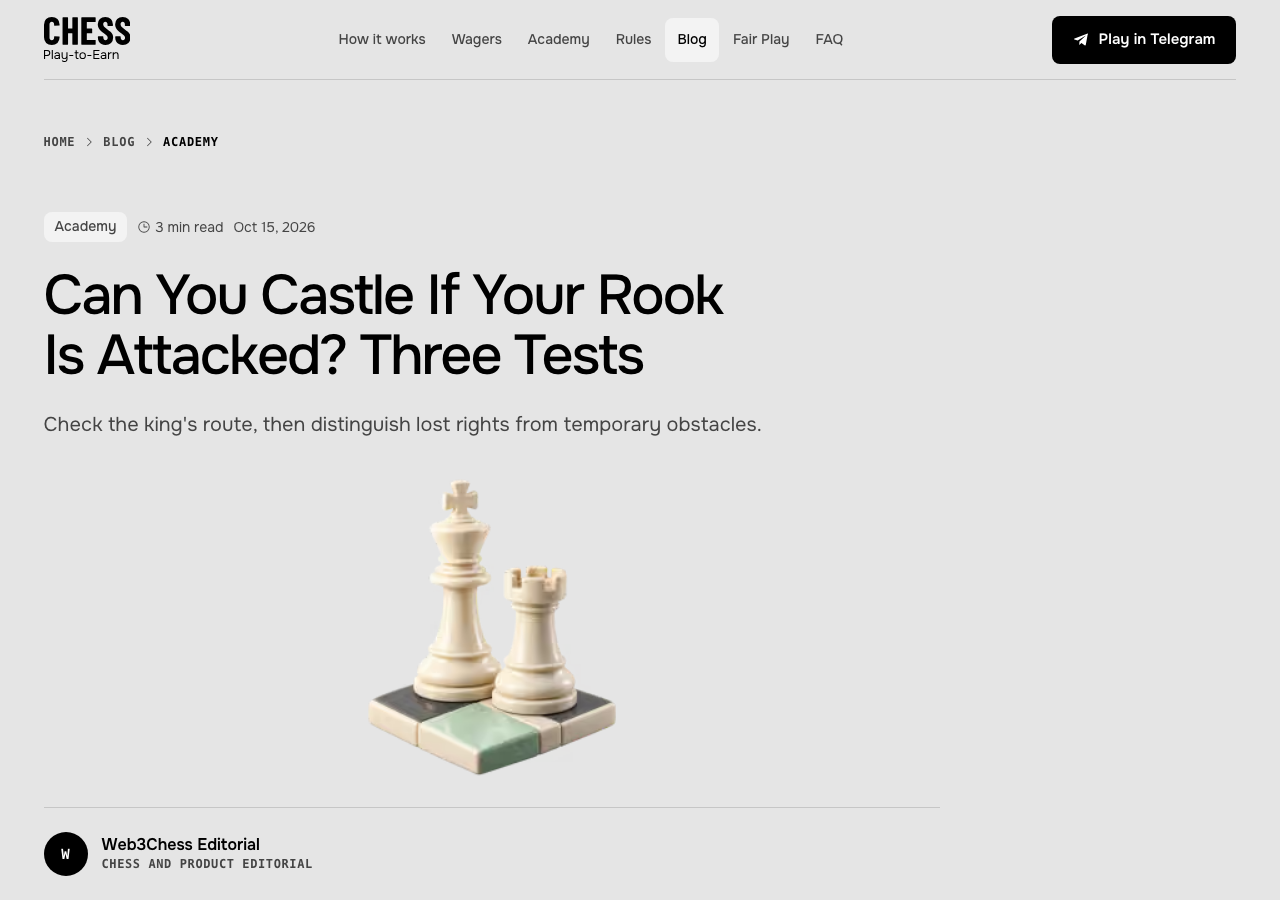
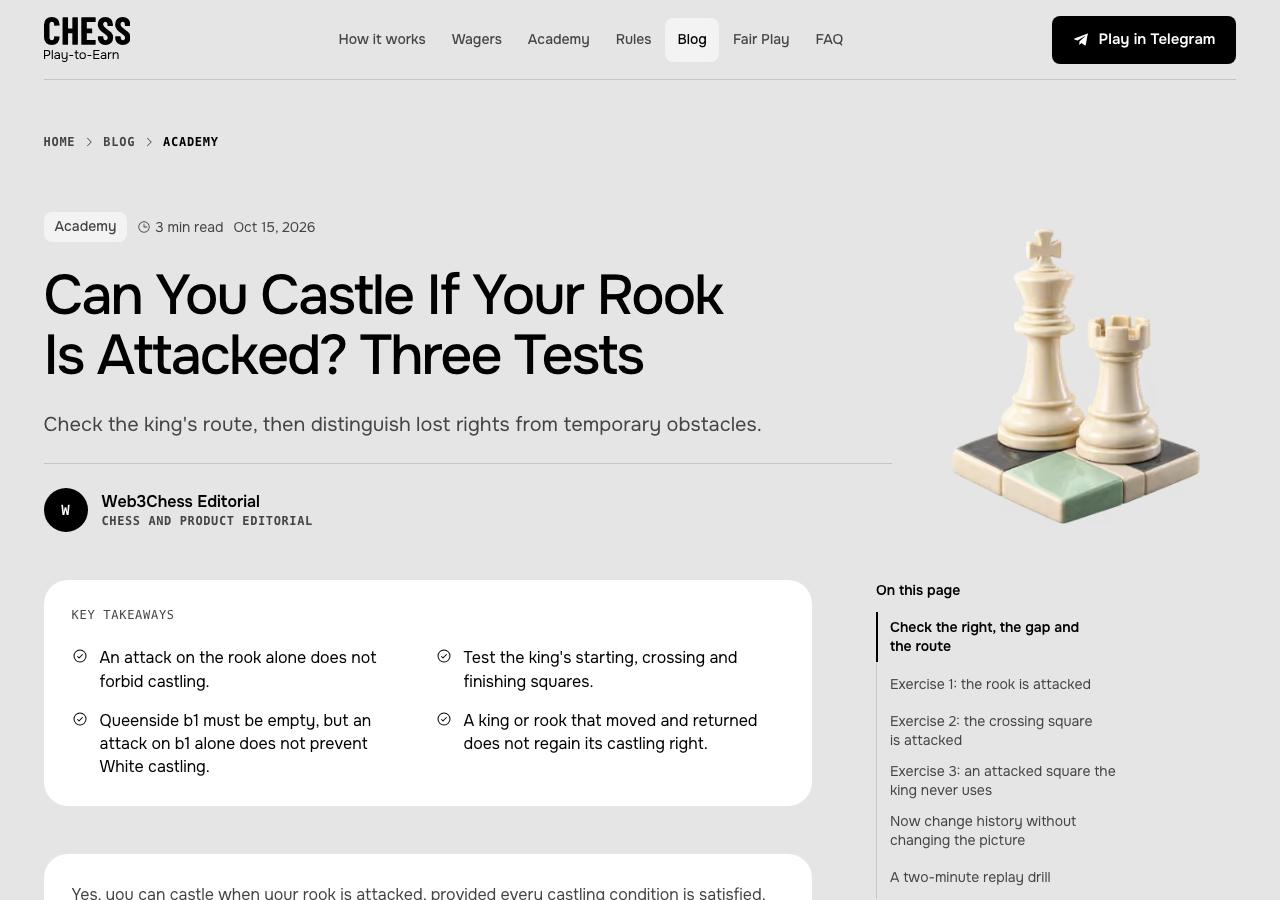
Align castling article artwork with responsive hero layout

diff --git a/website/src/app/blog/[slug]/page.tsx b/website/src/app/blog/[slug]/page.tsx
@@ -269,7 +269,9 @@ export default async function BlogPostPage({ params }: PageProps) {
         </nav>
 
         {/* Article Header Container */}
-        <header className="space-y-6 max-w-4xl">
+        <header className={post.coverImage
+          ? "grid gap-6 lg:max-w-none lg:grid-cols-[minmax(0,1fr)_320px]"
+          : "space-y-6 max-w-4xl"}>
           {/* Metadata Pill Row */}
           <div className="flex flex-wrap items-center gap-2.5">
             <Badge>{post.category}</Badge>
@@ -300,7 +302,7 @@ export default async function BlogPostPage({ params }: PageProps) {
               height={1000}
               sizes="(max-width: 639px) 240px, 320px"
               alt=""
-              className="mx-auto h-auto w-full max-w-[240px] sm:max-w-xs"
+              className="mx-auto h-auto w-full max-w-[240px] sm:max-w-xs lg:col-start-2 lg:row-start-1 lg:row-span-4 lg:self-center"
             />
           )}
 

diff --git a/design-system/website/DESIGN.md b/design-system/website/DESIGN.md
@@ -21,7 +21,7 @@
 
 ### 0.1 Production marketing preservation and responsive polish (2026-10-13)
 
-- **Editorial artwork:** an article may set its existing `coverImage` field to a local, optimized illustration. Render it in flow below the lead with explicit square dimensions, a bounded 240px phone / 320px desktop width, and empty alternative text when purely decorative. New article-specific art also belongs in `chess-art.ts` so its journal and share preview use the same sculpture. Generated artwork never replaces exact chess diagrams or encodes essential notation.
+- **Editorial artwork:** an article may set its existing `coverImage` field to a local, optimized illustration. Keep it in flow below the lead on phones and in the right header column from 1024px, with explicit square dimensions, a bounded 240px phone / 320px desktop width, and empty alternative text when purely decorative. New article-specific art also belongs in `chess-art.ts` so its journal and share preview use the same sculpture. Generated artwork never replaces exact chess diagrams or encodes essential notation.
 
 - **Owner-approved baseline:** preserve production copy, section order, marketing modules, assets, destinations, settlement math, and interaction logic. This presentation pass must not shorten body copy, remove the LIVE strip/counter/avatars, replace the settlement feed, or discard the vault, referral, stakes, globe, ecosystem, Academy, and journal modules. Owner instructions override older recommendations below when they conflict with this preservation requirement.
 - **Copywriting:** headings and title lines have no terminal full stop. Body sentences retain their punctuation. Home uses the owner-approved “Play chess / Win real crypto”, the full Telegram/arena/stakes badge and lead, and “Instant on-chain GRAM & USDT payouts / No download required”.
